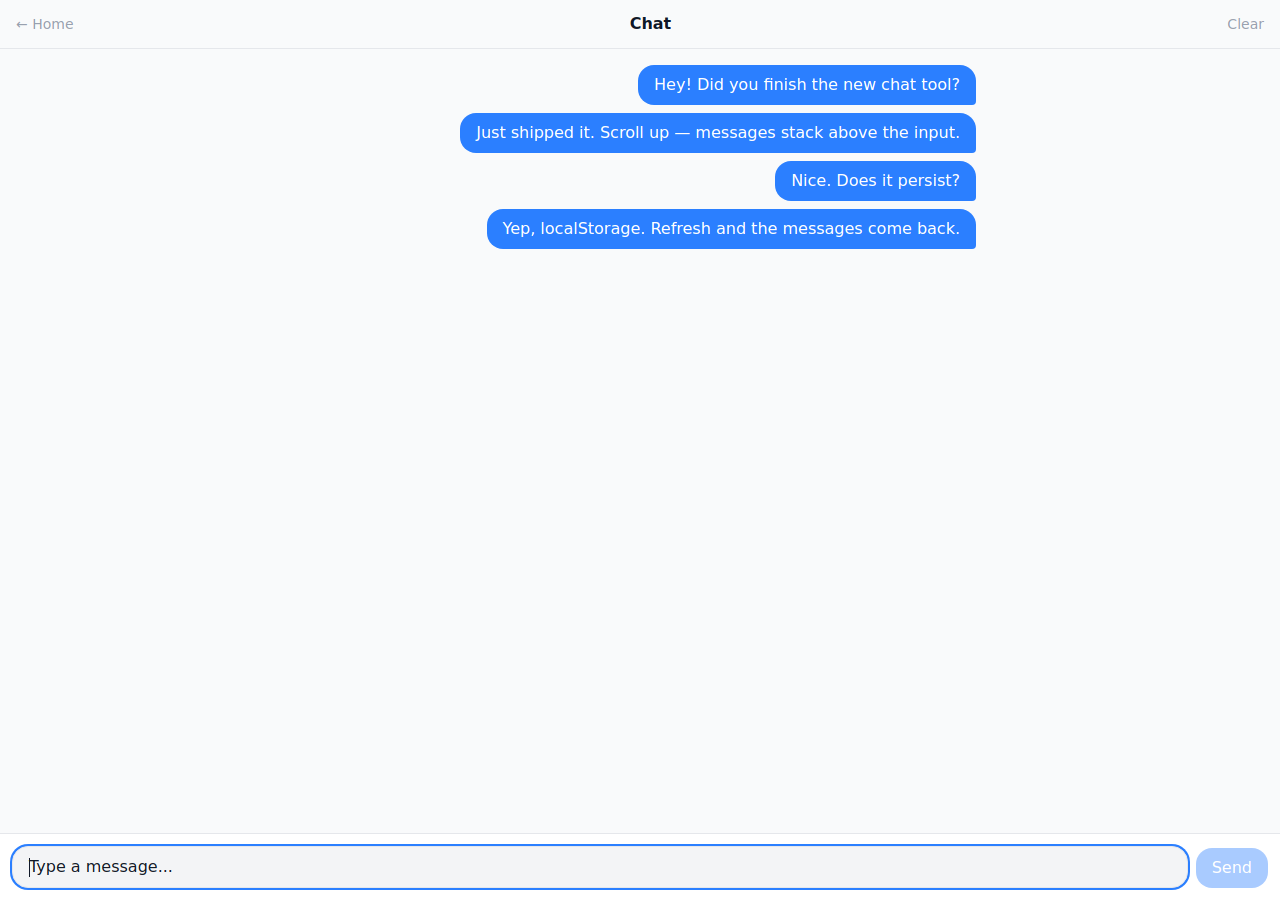
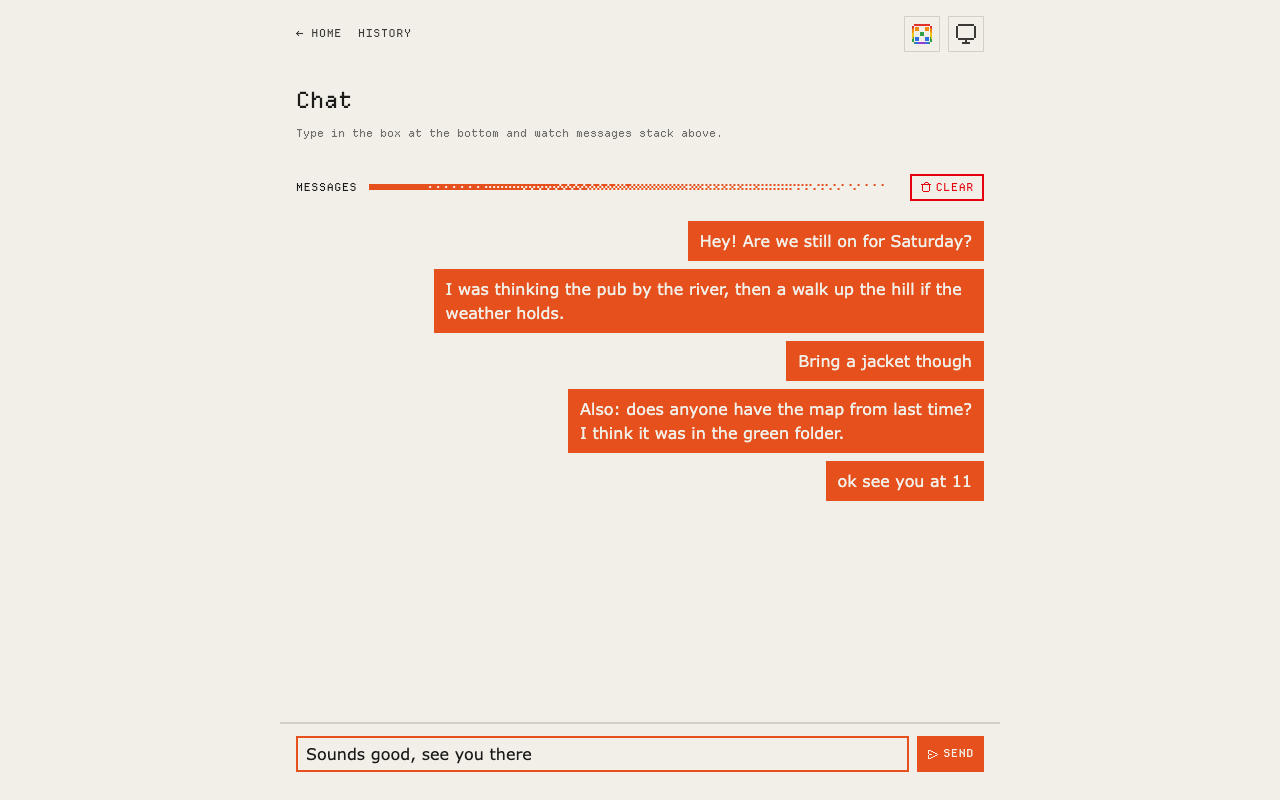
feat(chat): the chat sits on PixelAppLayout and draws its bubbles, composer and buttons from the pixel kit (#84)
- **The layout owns the app bar now**
  The tool's own header with its ← Home link, history link and theme toggle is gone; PixelAppLayout draws all of them, so the "has a home link" test went with the header it described.
- **The page scrolls, not a nested list**
  PixelAppLayout's body is min-h-screen, so the old h-dvh inner scroller no longer fits; the composer is sticky at the bottom and a new message scrolls the window to the end.
- **Bubbles are accent blocks**
  Square accent fill with bg-coloured text replaces the rounded blue bubble, matching a primary pixel-button.
- **Clear is a danger button**
  It used to turn red on hover; it now uses the kit's danger variant beside the Messages section label.
- **Saved conversations still load**
  `chat_messages` and its `{ id, text, at }` shape are unchanged.

diff --git a/src/pages/chat/_app/app.jsx b/src/pages/chat/_app/app.jsx
@@ -1,20 +1,20 @@
 import { createRoot } from 'react-dom/client';
 import { useEffect, useRef, useState } from 'react';
 import { useLocalStorage } from '../../../lib/useLocalStorage.js';
-import { ThemeToggle } from '../../../components/ThemeToggle.jsx';
+import { SectionLabel } from '../../../components/pixel/SectionLabel.jsx';
+import { Icon } from '../../../components/pixel/Icon.jsx';
+import sendIcon from 'pixelarticons/svg/send.svg?raw';
+import trashIcon from 'pixelarticons/svg/trash.svg?raw';
 
 const PREFIX = 'chat_';
 
-export function App({ historyUrl }) {
+export function App() {
   const [messages, setMessages] = useLocalStorage('messages', [], { prefix: PREFIX });
   const [draft, setDraft] = useState('');
-  const listRef = useRef(null);
   const textareaRef = useRef(null);
 
   useEffect(() => {
-    if (listRef.current) {
-      listRef.current.scrollTop = listRef.current.scrollHeight;
-    }
+    if (messages.length > 0) window.scrollTo?.(0, document.documentElement.scrollHeight);
   }, [messages]);
 
   const send = () => {
@@ -35,41 +35,32 @@ export function App({ historyUrl }) {
   const clear = () => setMessages([]);
 
   return (
-    <div className="flex flex-col h-dvh text-gray-900 dark:text-gray-100">
-      <header className="flex items-center justify-between px-4 py-3 border-b border-gray-200 dark:border-gray-700">
-        <nav className="flex items-center gap-3 text-sm text-gray-400">
-          <a href="../" className="inline-flex items-center gap-1 hover:text-gray-600 dark:hover:text-gray-300 transition-colors">
-            ← Home
-          </a>
-          {historyUrl && (
-            <a href={historyUrl} target="_blank" rel="noopener" className="hover:text-gray-600 dark:hover:text-gray-300 transition-colors">
-              history
-            </a>
-          )}
-        </nav>
-        <h1 className="text-base font-semibold">Chat</h1>
-        <div className="flex items-center gap-3">
-          <ThemeToggle className="text-gray-400" />
-          <button
-            onClick={clear}
-            disabled={messages.length === 0}
-            className="text-sm text-gray-400 hover:text-red-500 disabled:opacity-40 disabled:cursor-not-allowed transition-colors"
-          >
+    <div className="flex flex-col flex-1">
+      <h1 className="page-title mt-4 mb-2">Chat</h1>
+      <p className="page-sub mt-0 mb-8">Type in the box at the bottom and watch messages stack above.</p>
+
+      <SectionLabel
+        className="mb-3"
+        action={
+          <button onClick={clear} disabled={messages.length === 0} className="pixel-button inline-flex items-center gap-1" data-variant="danger">
+            <Icon svg={trashIcon} className="w-3 h-3" />
             Clear
           </button>
-        </div>
-      </header>
+        }
+      >
+        Messages
+      </SectionLabel>
 
-      <div ref={listRef} className="flex-1 overflow-y-auto px-4 py-4">
+      <div className="flex-1 py-2">
         {messages.length === 0 ? (
-          <p className="text-center text-sm text-gray-400 dark:text-gray-500 mt-8">
+          <p className="label text-center mt-8 opacity-70">
             No messages yet. Say hello.
           </p>
         ) : (
-          <ul className="flex flex-col gap-2 max-w-2xl mx-auto">
+          <ul className="flex flex-col gap-2">
             {messages.map(m => (
               <li key={m.id} className="flex justify-end">
-                <div className="max-w-[80%] rounded-2xl rounded-br-sm bg-blue-500 text-white px-4 py-2 whitespace-pre-wrap break-words">
+                <div className="max-w-[80%] bg-accent text-bg px-3 py-2 whitespace-pre-wrap break-words">
                   {m.text}
                 </div>
               </li>
@@ -80,7 +71,7 @@ export function App({ historyUrl }) {
 
       <form
         onSubmit={(e) => { e.preventDefault(); send(); }}
-        className="flex items-end gap-2 p-3 border-t border-gray-200 dark:border-gray-700 bg-white dark:bg-gray-900"
+        className="sticky bottom-0 flex items-stretch gap-2 -mx-4 px-4 py-3 bg-bg border-t-2 border-border"
       >
         <textarea
           ref={textareaRef}
@@ -88,14 +79,17 @@ export function App({ historyUrl }) {
           onChange={(e) => setDraft(e.target.value)}
           onKeyDown={handleKeyDown}
           placeholder="Type a message..."
+          aria-label="Message"
           rows={1}
-          className="flex-1 resize-none rounded-2xl px-4 py-2 bg-gray-100 dark:bg-gray-800 border border-gray-200 dark:border-gray-700 focus:outline-none focus:ring-2 focus:ring-blue-500 max-h-40"
+          className="pixel-field flex-1 min-w-0 resize-none max-h-40"
         />
         <button
           type="submit"
           disabled={!draft.trim()}
-          className="px-4 py-2 rounded-2xl bg-blue-500 text-white font-medium hover:bg-blue-600 active:bg-blue-700 disabled:opacity-40 disabled:cursor-not-allowed transition-colors"
+          className="pixel-button inline-flex items-center gap-1"
+          data-variant="primary"
         >
+          <Icon svg={sendIcon} className="w-3 h-3" />
           Send
         </button>
       </form>
@@ -104,4 +98,4 @@ export function App({ historyUrl }) {
 }
 
 const mount = document.getElementById('app');
-if (mount) createRoot(mount).render(<App historyUrl={mount.dataset.historyUrl} />);
+if (mount) createRoot(mount).render(<App />);

diff --git a/src/pages/chat/_app/app.test.jsx b/src/pages/chat/_app/app.test.jsx
@@ -12,12 +12,6 @@ describe('Chat', () => {
     expect(screen.getByText('Chat')).toBeTruthy();
   });
 
-  test('has a home link', () => {
-    render(<App />);
-    const home = screen.getByText('← Home').closest('a');
-    expect(home.getAttribute('href')).toBe('../');
-  });
-
   test('sending a message adds it to the list', () => {
     render(<App />);
     const textarea = screen.getByPlaceholderText('Type a message...');
